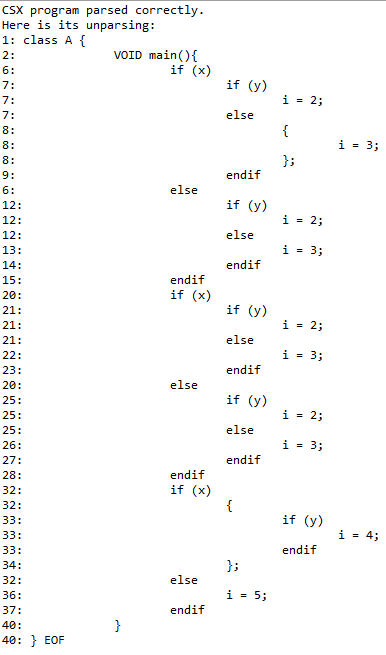
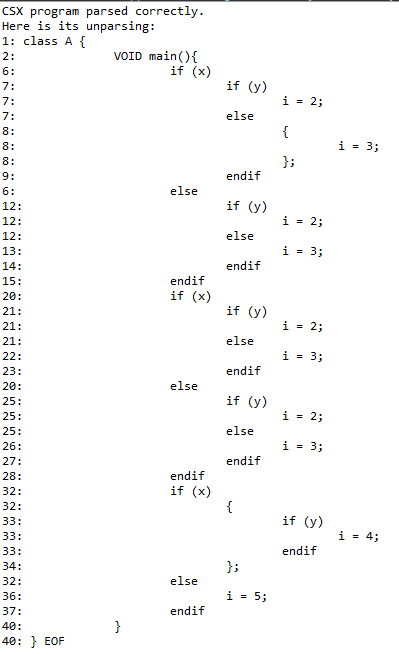
* Fixed another error with statement and updated test cases

diff --git a/src/ast.java b/src/ast.java
@@ -504,8 +504,12 @@ class stmtsNode extends ASTNode {
 	//	...
 	//	lastStmt
 	void Unparse(int indent) {
-		System.out.print(thisStmt.linenum + ":");
-		genIndent(indent);
+		if(!(thisStmt instanceof blockNode))
+		{
+			System.out.print(thisStmt.linenum + ":");
+			genIndent(indent);
+		}
+		
 		thisStmt.Unparse(indent);
 		
 		if(!(thisStmt instanceof ifThenNode))
